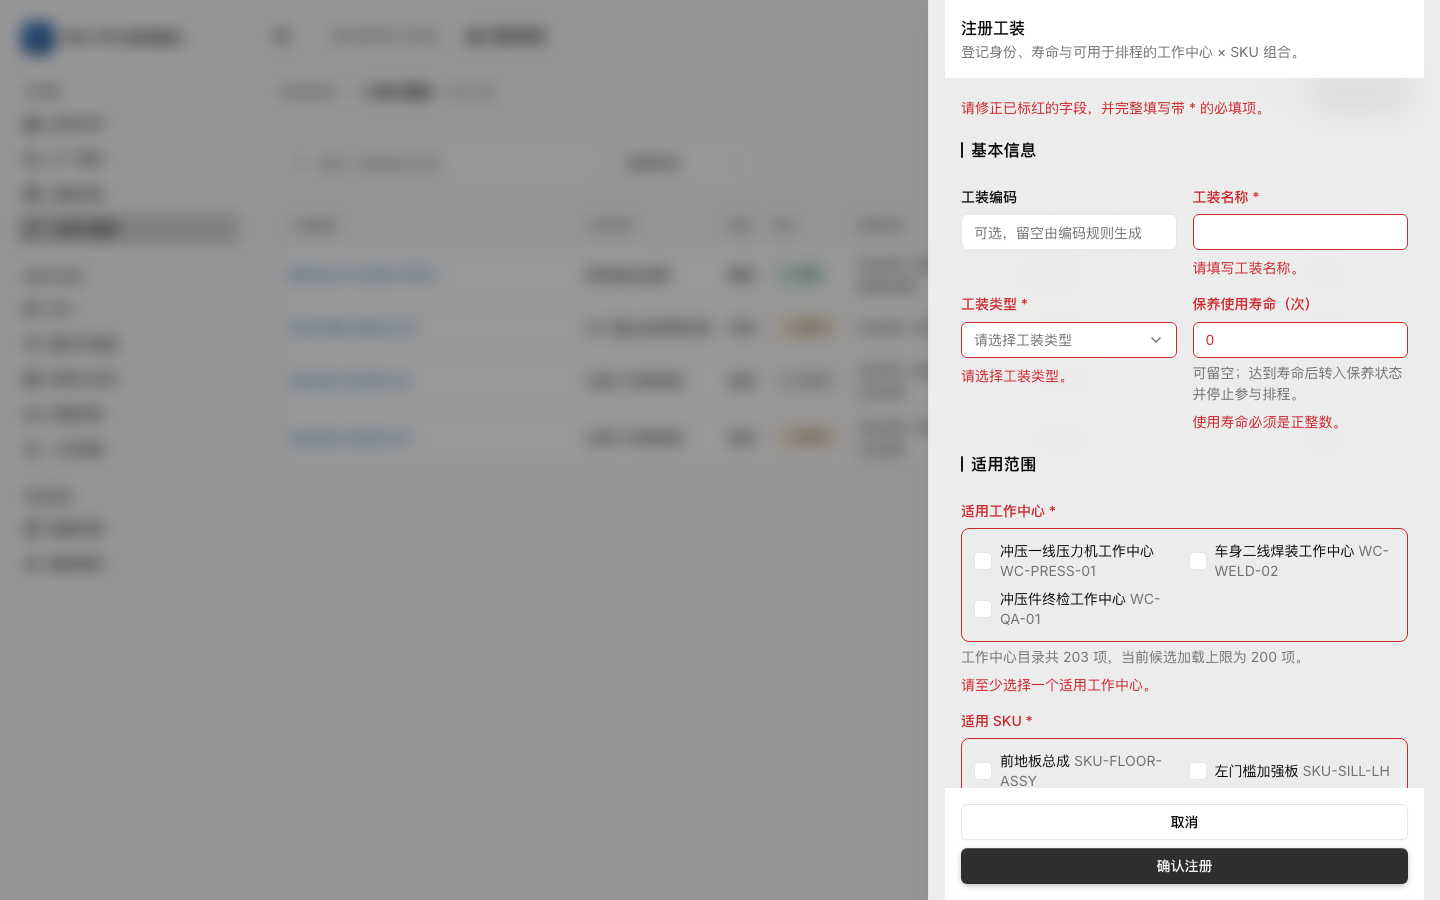
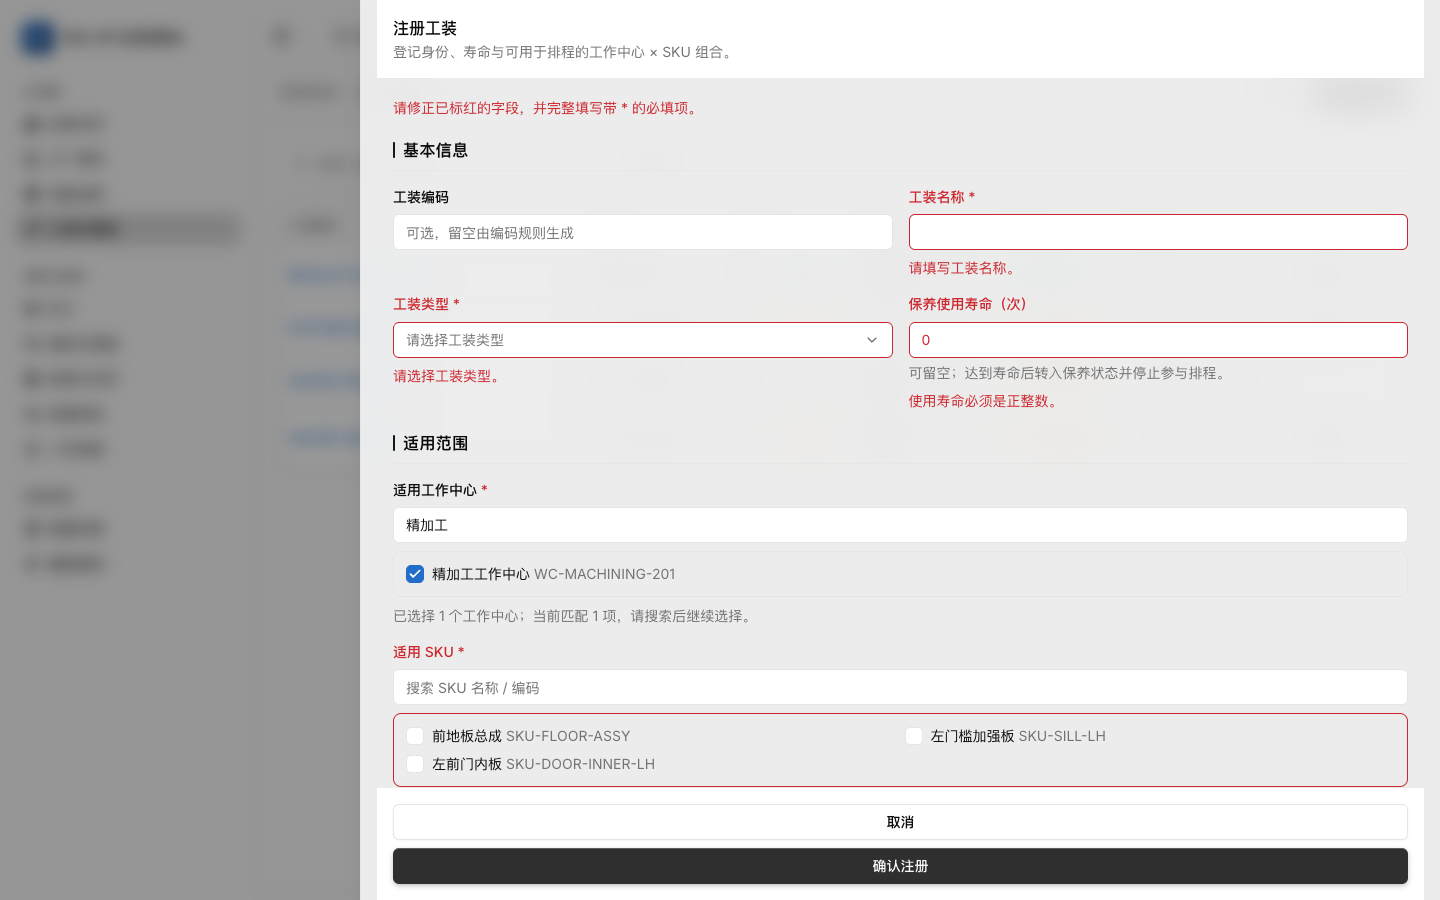
修复工装注册目录检索与展示契约

diff --git a/frontend/apps/business-console/src/pages/master-data/tooling.vue b/frontend/apps/business-console/src/pages/master-data/tooling.vue
@@ -5,7 +5,8 @@ import type {
   BusinessConsoleToolingAssetStatus,
 } from '@nerv-iip/api-client'
 import type { NvDataTableColumn } from '@nerv-iip/ui'
-import { computed, reactive, shallowRef } from 'vue'
+import { watchDebounced } from '@vueuse/core'
+import { computed, reactive, ref, shallowRef } from 'vue'
 import BusinessLayout from '@/layouts/BusinessLayout.vue'
 import FormSectionTitle from '@/components/masterData/FormSectionTitle.vue'
 import { useBusinessMasterDataResources } from '@/composables/useBusinessMasterData'
@@ -80,8 +81,27 @@ const canManage = computed(() =>
 
 const workCenters = useBusinessMasterDataResources('work-center')
 const skus = useBusinessMasterDataResources('sku')
-workCenters.filters.take = 200
-skus.filters.take = 200
+const CATALOG_PAGE_SIZE = 50
+workCenters.filters.take = CATALOG_PAGE_SIZE
+skus.filters.take = CATALOG_PAGE_SIZE
+const workCenterSearch = ref('')
+const skuSearch = ref('')
+watchDebounced(
+  workCenterSearch,
+  (value) => {
+    const keyword = value.trim()
+    workCenters.filters.keyword = keyword || undefined
+  },
+  { debounce: 300, maxWait: 1000 },
+)
+watchDebounced(
+  skuSearch,
+  (value) => {
+    const keyword = value.trim()
+    skus.filters.keyword = keyword || undefined
+  },
+  { debounce: 300, maxWait: 1000 },
+)
 
 const toolingTypes = [
   { value: 'mould', label: '模具' },
@@ -211,6 +231,10 @@ function openRegister() {
     skuCodes: [],
   })
   registerShowErrors.value = false
+  workCenterSearch.value = ''
+  skuSearch.value = ''
+  workCenters.filters.keyword = undefined
+  skus.filters.keyword = undefined
   registerOpen.value = true
 }
 async function submitRegister() {
@@ -457,7 +481,7 @@ const listErrorMessage = computed(() =>
     </NvDataTable>
 
     <NvSheet v-model:open="detailOpen">
-      <NvSheetContent class="w-full overflow-y-auto sm:max-w-lg">
+      <NvSheetContent size="lg">
         <NvSheetHeader>
           <NvSheetTitle>{{ detailTarget?.name ?? '工装详情' }}</NvSheetTitle>
           <NvSheetDescription>{{ detailTarget?.code }}</NvSheetDescription>
@@ -492,7 +516,7 @@ const listErrorMessage = computed(() =>
     </NvSheet>
 
     <NvSheet v-if="canManage" v-model:open="registerOpen">
-      <NvSheetContent class="w-full overflow-y-auto sm:max-w-2xl">
+      <NvSheetContent size="2xl">
         <form class="grid gap-5" novalidate @submit.prevent="submitRegister">
           <NvSheetHeader>
             <NvSheetTitle>注册工装</NvSheetTitle>
@@ -575,6 +599,12 @@ const listErrorMessage = computed(() =>
                   适用工作中心 <span class="text-destructive">*</span>
                 </span>
               </NvFieldLabel>
+              <NvInput
+                id="tooling-work-center-search"
+                v-model="workCenterSearch"
+                placeholder="搜索工作中心名称 / 编码"
+                aria-label="搜索适用工作中心"
+              />
               <div
                 class="grid gap-2 rounded-lg border p-3 sm:grid-cols-2"
                 :data-invalid="Boolean(registerWorkCenterError)"
@@ -599,11 +629,9 @@ const listErrorMessage = computed(() =>
                   >
                 </label>
               </div>
-              <NvFieldDescription
-                v-if="workCenters.resourcesTotal.value > workCenters.filters.take"
-              >
-                工作中心目录共 {{ workCenters.resourcesTotal.value }} 项，当前候选加载上限为
-                {{ workCenters.filters.take }} 项。
+              <NvFieldDescription>
+                已选择 {{ registerForm.workCenterCodes.length }} 个工作中心；当前匹配
+                {{ workCenters.resourcesTotal.value }} 项，请搜索后继续选择。
               </NvFieldDescription>
               <NvFieldError v-if="registerWorkCenterError" :errors="[registerWorkCenterError]" />
             </NvField>
@@ -613,6 +641,12 @@ const listErrorMessage = computed(() =>
                   适用 SKU <span class="text-destructive">*</span>
                 </span>
               </NvFieldLabel>
+              <NvInput
+                id="tooling-sku-search"
+                v-model="skuSearch"
+                placeholder="搜索 SKU 名称 / 编码"
+                aria-label="搜索适用 SKU"
+              />
               <div
                 class="grid gap-2 rounded-lg border p-3 sm:grid-cols-2"
                 :data-invalid="Boolean(registerSkuError)"
@@ -637,9 +671,9 @@ const listErrorMessage = computed(() =>
                   >
                 </label>
               </div>
-              <NvFieldDescription v-if="skus.resourcesTotal.value > skus.filters.take">
-                SKU 目录共 {{ skus.resourcesTotal.value }} 项，当前候选加载上限为
-                {{ skus.filters.take }} 项。
+              <NvFieldDescription>
+                已选择 {{ registerForm.skuCodes.length }} 个 SKU；当前匹配
+                {{ skus.resourcesTotal.value }} 项，请搜索后继续选择。
               </NvFieldDescription>
               <NvFieldDescription>{{ applicabilityCount }} 个适用组合</NvFieldDescription>
               <NvFieldError v-if="registerSkuError" :errors="[registerSkuError]" />

diff --git a/frontend/apps/business-console/src/pages/master-data/tooling.test.ts b/frontend/apps/business-console/src/pages/master-data/tooling.test.ts
@@ -79,19 +79,26 @@ vi.mock('@/composables/useBusinessTooling', () => ({
 }))
 
 vi.mock('@/composables/useBusinessMasterData', () => ({
-  useBusinessMasterDataResources: (resourceType: string) => ({
-    filters: reactive({ take: 200 }),
-    resources: computed(() =>
-      resourceType === 'work-center'
-        ? [{ code: 'WC-PRESS', displayName: '冲压工作中心', active: true }]
-        : [
-            { code: 'SKU-FLOOR', displayName: '前地板总成', active: true },
-            { code: 'SKU-SILL', displayName: '左门槛加强板', active: true },
-          ],
-    ),
-    resourcesTotal: computed(() => (resourceType === 'work-center' ? 201 : 2)),
-    resourcesPending: shallowRef(false),
-  }),
+  useBusinessMasterDataResources: (resourceType: string) => {
+    const filters = reactive({ take: 50, keyword: undefined as string | undefined })
+    return {
+      filters,
+      resources: computed(() =>
+        resourceType === 'work-center'
+          ? filters.keyword === '精加工'
+            ? [{ code: 'WC-MACHINING-201', displayName: '精加工工作中心', active: true }]
+            : [{ code: 'WC-PRESS', displayName: '冲压工作中心', active: true }]
+          : [
+              { code: 'SKU-FLOOR', displayName: '前地板总成', active: true },
+              { code: 'SKU-SILL', displayName: '左门槛加强板', active: true },
+            ],
+      ),
+      resourcesTotal: computed(() =>
+        resourceType === 'work-center' ? (filters.keyword ? 1 : 203) : 2,
+      ),
+      resourcesPending: shallowRef(false),
+    }
+  },
 }))
 
 vi.mock('@nerv-iip/ui', async (original) => ({
@@ -103,7 +110,10 @@ const stubs = {
   BusinessLayout: { template: '<main><slot /></main>' },
   NvSheet: { props: ['open'], template: '<div v-if="open"><slot /></div>' },
   DialogRoot: { props: ['open'], template: '<div v-if="open"><slot /></div>' },
-  NvSheetContent: { template: '<section><slot /></section>' },
+  NvSheetContent: {
+    props: ['size'],
+    template: '<section data-testid="sheet-content" :data-size="size"><slot /></section>',
+  },
   NvSheetHeader: { template: '<header><slot /></header>' },
   NvSheetTitle: { template: '<h2><slot /></h2>' },
   NvSheetDescription: { template: '<p><slot /></p>' },
@@ -208,6 +218,39 @@ describe('工装与模具维护台', () => {
     const form = wrapper.find('form')
     expect(form.exists()).toBe(true)
     expect(form.attributes('novalidate')).toBeDefined()
+    expect(wrapper.findAll('[data-testid="sheet-content"]')[0]?.attributes('data-size')).toBe('2xl')
+  })
+
+  it('详情与注册抽屉使用 NvSheetContent 尺寸契约', async () => {
+    const wrapper = mount(ToolingPage, { global: { stubs } })
+    await flushPromises()
+
+    await button(wrapper, 'MOULD-001')!.trigger('click')
+    expect(wrapper.find('[data-testid="sheet-content"]').attributes('data-size')).toBe('lg')
+
+    await button(wrapper, '注册工装')!.trigger('click')
+    expect(wrapper.findAll('[data-testid="sheet-content"]')[1]?.attributes('data-size')).toBe('2xl')
+  })
+
+  it('通过服务端目录搜索可以选择首批结果之外的工作中心', async () => {
+    vi.useFakeTimers()
+    const wrapper = mount(ToolingPage, { global: { stubs } })
+    await flushPromises()
+    await button(wrapper, '注册工装')!.trigger('click')
+
+    expect(wrapper.text()).not.toContain('精加工工作中心')
+    await wrapper.find('#tooling-work-center-search').setValue('精加工')
+    await vi.advanceTimersByTimeAsync(300)
+    await flushPromises()
+
+    expect(wrapper.text()).toContain('精加工工作中心')
+    const lateOption = wrapper
+      .findAll('label')
+      .find((candidate) => candidate.text().includes('WC-MACHINING-201'))
+    expect(lateOption).toBeTruthy()
+    await lateOption!.find('input[type="checkbox"]').setValue(true)
+    expect(wrapper.text()).toContain('已选择 1 个工作中心')
+    vi.useRealTimers()
   })
 
   it('未达到寿命时完成保养只要求填写原因', async () => {
@@ -286,7 +329,6 @@ describe('工装与模具维护台', () => {
     await checks[0]!.setValue(true)
     await checks[1]!.setValue(true)
     expect(wrapper.text()).toContain('1 个适用组合')
-    expect(wrapper.text()).toContain('工作中心目录共 201 项，当前候选加载上限为 200 项')
     await wrapper.find('form').trigger('submit')
     await flushPromises()
 

diff --git a/frontend/apps/business-console/e2e/issue1974-tooling-visual.spec.ts b/frontend/apps/business-console/e2e/issue1974-tooling-visual.spec.ts
@@ -76,6 +76,12 @@ test('工装维护台真实浏览器视觉核验', async ({ page }) => {
   await expect(detail).toBeHidden()
 
   await page.getByRole('button', { name: '注册工装' }).click()
+  const workCenterSearch = page.getByLabel('搜索适用工作中心')
+  await workCenterSearch.fill('精加工')
+  const lateWorkCenter = page.locator('label').filter({ hasText: 'WC-MACHINING-201' })
+  await expect(lateWorkCenter).toContainText('精加工工作中心')
+  await lateWorkCenter.getByRole('checkbox').check()
+  await expect(page.getByText(/已选择 1 个工作中心/)).toBeVisible()
   const nameInput = page.getByLabel('工装名称 *')
   const typeTrigger = page.getByLabel('工装类型 *')
   const lifeInput = page.getByLabel('保养使用寿命（次）')
@@ -252,31 +258,42 @@ async function routeBusinessConsoleApi(route: Route) {
 
   if (url.pathname === '/api/business-console/v1/master-data/resources') {
     const resourceType = url.searchParams.get('resourceType')
+    const keyword = url.searchParams.get('keyword')
     const resources =
       resourceType === 'work-center'
-        ? [
-            {
-              resourceType,
-              code: 'WC-PRESS-01',
-              displayName: '冲压一线压力机工作中心',
-              active: true,
-              snapshotVersion: 'v12',
-            },
-            {
-              resourceType,
-              code: 'WC-WELD-02',
-              displayName: '车身二线焊装工作中心',
-              active: true,
-              snapshotVersion: 'v9',
-            },
-            {
-              resourceType,
-              code: 'WC-QA-01',
-              displayName: '冲压件终检工作中心',
-              active: true,
-              snapshotVersion: 'v5',
-            },
-          ]
+        ? keyword === '精加工'
+          ? [
+              {
+                resourceType,
+                code: 'WC-MACHINING-201',
+                displayName: '精加工工作中心',
+                active: true,
+                snapshotVersion: 'v3',
+              },
+            ]
+          : [
+              {
+                resourceType,
+                code: 'WC-PRESS-01',
+                displayName: '冲压一线压力机工作中心',
+                active: true,
+                snapshotVersion: 'v12',
+              },
+              {
+                resourceType,
+                code: 'WC-WELD-02',
+                displayName: '车身二线焊装工作中心',
+                active: true,
+                snapshotVersion: 'v9',
+              },
+              {
+                resourceType,
+                code: 'WC-QA-01',
+                displayName: '冲压件终检工作中心',
+                active: true,
+                snapshotVersion: 'v5',
+              },
+            ]
         : [
             {
               resourceType,
@@ -302,7 +319,10 @@ async function routeBusinessConsoleApi(route: Route) {
           ]
     return fulfillJson(
       route,
-      envelope({ resources, total: resourceType === 'work-center' ? 203 : 318 }),
+      envelope({
+        resources,
+        total: resourceType === 'work-center' ? (keyword ? resources.length : 203) : 318,
+      }),
     )
   }
 

diff --git a/frontend/apps/business-console/src/composables/useBusinessMasterData.test.ts b/frontend/apps/business-console/src/composables/useBusinessMasterData.test.ts
@@ -239,7 +239,7 @@ describe('business master data composables', () => {
       },
     })
 
-    const { resources, resourcesTotal } = useBusinessMasterDataResources('uom')
+    const { filters, resources, resourcesTotal } = useBusinessMasterDataResources('uom')
 
     expect(listBusinessConsoleMasterDataResourcesQueryOptions).toHaveBeenCalledWith({
       query: {
@@ -257,6 +257,19 @@ describe('business master data composables', () => {
         code: 'EA',
       },
     ])
+
+    filters.keyword = '精加工'
+    coladaState.queryFactoriesById.get('listBusinessConsoleMasterDataResources')?.()
+    expect(listBusinessConsoleMasterDataResourcesQueryOptions).toHaveBeenLastCalledWith({
+      query: {
+        organizationId: 'org-001',
+        environmentId: 'env-dev',
+        resourceType: 'uom',
+        keyword: '精加工',
+        skip: 0,
+        take: 100,
+      },
+    })
   })
 
   it('lists multiple master data resource groups for linked selectors', () => {

diff --git a/frontend/apps/business-console/src/composables/useBusinessTooling.test.ts b/frontend/apps/business-console/src/composables/useBusinessTooling.test.ts
@@ -80,7 +80,7 @@ describe('useBusinessTooling', () => {
     state.invalidations = 0
   })
 
-  it('将工装状态和类型映射为中文，并对未知类型保留服务端值', () => {
+  it('将工装状态和类型映射为中文，并对未知类型失败关闭', () => {
     expect(toolingStatusLabel('available')).toBe('可用')
     expect(toolingStatusLabel('maintenance')).toBe('保养中')
     expect(toolingStatusLabel('retired')).toBe('已退役')
@@ -89,7 +89,7 @@ describe('useBusinessTooling', () => {
     expect(toolingTypeLabel('jig')).toBe('工装夹具')
     expect(toolingTypeLabel('cutting')).toBe('刀具')
     expect(toolingTypeLabel('gauge')).toBe('检具')
-    expect(toolingTypeLabel('unknown-tooling')).toBe('unknown-tooling')
+    expect(toolingTypeLabel('unknown-tooling')).toBe('其他类型')
   })
 
   it('把关键字、状态与分页作为服务端查询参数，并读取服务端总数', () => {

diff --git a/frontend/apps/business-console/src/composables/useBusinessTooling.ts b/frontend/apps/business-console/src/composables/useBusinessTooling.ts
@@ -54,6 +54,7 @@ export function toolingStatusLabel(value: string | null | undefined) {
 }
 
 export function toolingTypeLabel(value: string | null | undefined) {
+  if (!value) return '未分类'
   return (
     {
       mould: '模具',
@@ -61,9 +62,7 @@ export function toolingTypeLabel(value: string | null | undefined) {
       jig: '工装夹具',
       cutting: '刀具',
       gauge: '检具',
-    }[value ?? ''] ??
-    value ??
-    '未分类'
+    }[value] ?? '其他类型'
   )
 }
 

diff --git a/frontend/apps/business-console/src/composables/useBusinessMasterData.ts b/frontend/apps/business-console/src/composables/useBusinessMasterData.ts
@@ -466,6 +466,7 @@ export function useBusinessMasterDataResources(
           resourceType: filters.resourceType,
           ...optionalQuery('codeSet', filters.codeSet),
           ...optionalQuery('includeDisabled', filters.includeDisabled),
+          ...optionalQuery('keyword', filters.keyword),
           skip: filters.skip,
           take: filters.take,
         },

diff --git a/docs/product/master-data/design.md b/docs/product/master-data/design.md
@@ -117,7 +117,7 @@ SKU 持有 6 个 UoM code（基本/库存/采购/销售/制造），创建时默
 | 业务伙伴 | 列表 + 角色叠加 | 基本保留(删过时"按编码推断"文案) | 角色筛选/列、多选角色新建 |
 | **工厂结构** | **左树+右详情** | **大改(Tab→树)** | 选中父级「+新建子级」预填归属、面包屑、树搜索、设备下钻出口 |
 | 设备台账 | 平表 + 详情/编辑 | 已深化 | 厂区/车间/产线/工位归属，购置/保修/供应商/退役台账，父设备与关键部件清单；维修工单读面展示保修状态 |
-| **工装与模具** | **平表 + 注册 Sheet + 状态/使用动作** | **新页** | 关键字与状态走服务端筛选；登记真实工作中心 × SKU 适用组合；展示累计使用/寿命预警与排程资格；可用→保养、完成保养→可用、退役终态，状态原因必填；完成保养时，只有累计使用已达到保养寿命才会清零计数，页面须在确认前披露；`resources.read` 可查看，`resources.manage` 才可写 |
+| **工装与模具** | **平表 + 注册 Sheet + 状态/使用动作** | **新页** | 关键字与状态走服务端筛选；注册时按名称/编码服务端搜索真实工作中心与 SKU 目录，目录超过一页仍可继续检索并登记组合；展示累计使用/寿命预警与排程资格；可用→保养、完成保养→可用、退役终态，状态原因必填；完成保养时，只有累计使用已达到保养寿命才会清零计数，页面须在确认前披露；`resources.read` 可查看，`resources.manage` 才可写 |
 | **员工** | 平表 + 新建/编辑弹窗 | **新页** | 「人」的业务权威源（IAM 只管账号）。工号由编码引擎分配（EMP-）；姓名/部门/岗位/在岗状态可维护，班组与技能只读展示（分别在「组织与班组」「人员技能」维护）；停用后不再进入派工与班组候选 |
 | **组织与班组** | 部门树 + 班组列表-详情 | **中改** | 部门树(按 parentCode 拼)、班组挂部门、**班组挂车间**（班组是车间级的，派工按「工作中心→车间→班组」找人）、成员主从 |
 | **排班与日历** | 班次设置表 + 日历月历 | **新页(从组织拆)** | 月历可视化(标工作日/节假日)；**依赖后端日历明细** |
